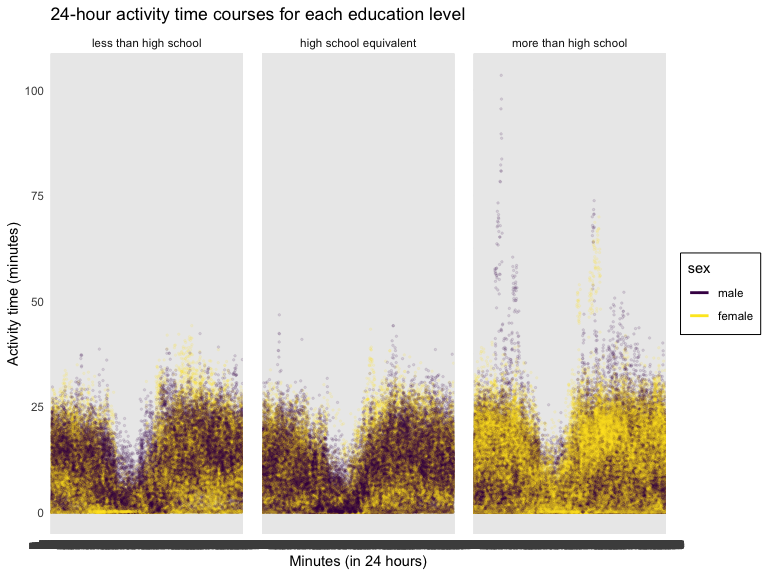
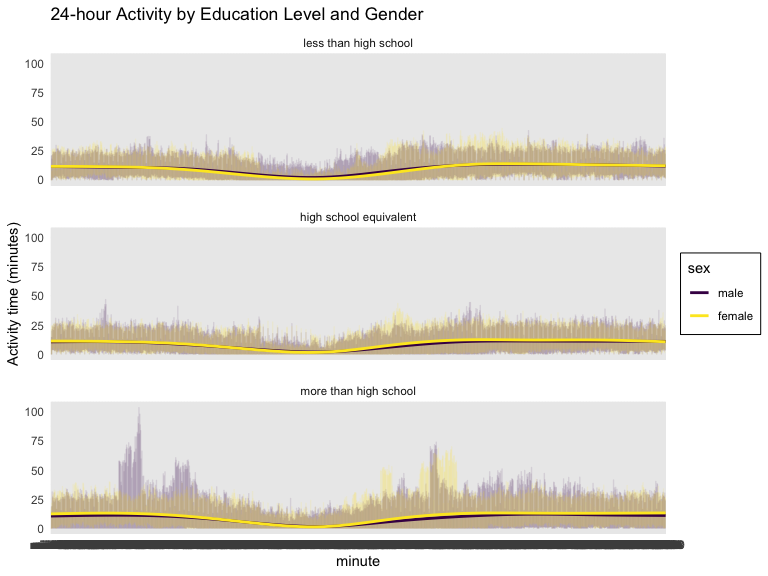
finished problem 3

diff --git a/p8105_hw3_wz2630.md b/p8105_hw3_wz2630.md
@@ -41,8 +41,7 @@ data("instacart")
 There are 1,384,617 observations and 15 variables in the ‘instacart’
 dataset. 4 of 15 are character data type and the remaining is integer
 data type. Key variables include order_id, product_id, user_id,
-product_name, aisle_id, department_id, not including all. \# what are
-illustrative examples?
+product_name, aisle_id, department_id, not including all.
 
 ``` r
 # How many aisles are there, and which aisles are the most items ordered from?
@@ -409,24 +408,30 @@ nhanes_pivotlonger <-
   
 nhanes_pivotlonger |> 
   ggplot(aes(x = minute, y = activity, color = sex)) + 
-  geom_point(alpha = 0.1, size = 0.5) + 
-  geom_smooth(se = FALSE) + 
-  facet_wrap(~education) + 
-  labs(x = "Minutes (in 24 hours)",
-       y = "Activity time (minutes)",
-       title = "24-hour activity time courses for each education level") + 
+  geom_line(alpha = 0.1, size = 0.5) + 
+  geom_smooth(aes(group = sex), se = FALSE) + 
+  facet_wrap(~education, ncol = 1) + 
+  labs(y = "Activity time (minutes)",
+       title = "24-hour Activity by Education Level and Gender") + 
   theme(legend.position = "right",
         legend.box.background = element_rect(),
         panel.spacing = unit(1, "lines"))
 ```
 
-    ## `geom_smooth()` using method = 'loess' and formula = 'y ~ x'
+    ## `geom_smooth()` using method = 'gam' and formula = 'y ~ s(x, bs = "cs")'
 
 <img src="p8105_hw3_wz2630_files/figure-gfm/unnamed-chunk-19-1.png" width="90%" />
+
+``` r
+ # scale_x_continuous(name = "Minutes", breaks=seq(0, 1440, by=60)) # add x-axis ticks
+```
+
 **Describe in words any patterns or conclusions you can make based on
 this graph; including smooth trends may help identify differences:**
 
-- Based on the graphs, it is difficult to differentiate whether there is
-  difference in amount of physical activty in a 24hr period between male
-  and female.
-- 
+Based on the graphs, it is difficult to differentiate whether there is
+difference in amount of physical activty in a 24hr period between male
+and female. Based on the trendlines, there is a dip at the 1/3 way point
+of the day across all education levels. In the “more than high school”
+level, there two high peaks. Overall, there is a slightly higher amount
+of physical activity among female compared to males.
